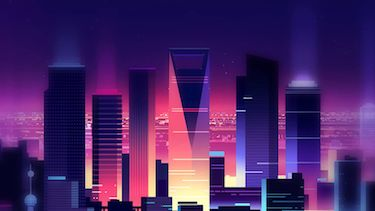
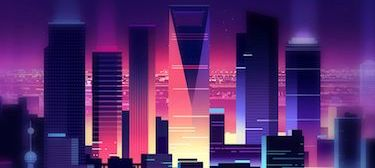
denver skyline synthy style

diff --git a/src/Contact/style.css b/src/Contact/style.css
@@ -1,0 +1,38 @@
+@media (max-width: 740px) {
+  footer {
+    background: repeating-linear-gradient(
+        135deg,
+        #CFCFCF 0%,
+        #CFCFCF 10%,
+        #E5E5E5 0%,
+        #E5E5E5 50%
+      )
+      0 / 15px 15px;
+  }
+  footer h2 {
+    font-size: 2rem;
+    padding: 20px 0 15px 0;
+    color: #00daff;
+    font-family: "Audiowide";
+    -webkit-animation: neon6 3.5s ease-in-out infinite alternate;
+    -moz-animation: neon6 3.5s ease-in-out infinite alternate;
+    animation: neon6 3.5s ease-in-out infinite alternate;
+    text-align: center;
+  }
+
+  footer nav {
+    width: 90%;
+    display: flex;
+    padding: 10px 20px 40px 20px;
+    justify-content: space-between;
+  }
+
+  footer nav img {
+    width: 40px;
+    text-shadow: 0 0 10px 10px white;
+    filter: brightness(0);
+    -webkit-animation: neon10 3.5s ease-in-out infinite alternate;
+    -moz-animation: neon10 3.5s ease-in-out infinite alternate;
+    animation: neon10 3.5s ease-in-out infinite alternate;
+  }
+}

diff --git a/src/About/style.css b/src/About/style.css
@@ -1,29 +1,15 @@
-@media (max-width: 740px) {
+/* @media (max-width: 740px) { */
   #about-page {
     height: 100vh;
     background-image:
-      url("../synth-city.jpg"),
+      url("../denver_Skyline-mobile.jpg"),
       linear-gradient(
-        85deg,
-        rgba(47,0,93, 1) 0%,
-        rgba(47,0,93, .5) 2%,
-        rgba(47,0,93, 0) 15%,
-        rgba(0,0,0,0) 100%
-      ),
-      linear-gradient(
-        270deg,
-        rgba(40,0,83, 1) 0%,
-        rgba(40,0,83, .5) 0%,
-        rgba(40,0,83, 0) 5%,
-        rgba(0,0,0,0) 100%
-      ),
-      linear-gradient(
-        360deg,
-        rgba(21,0,70, 1) 0%,
-        rgba(21,0,70, 1) 60%,
-        rgba(11,0,10, 9) 100%
-      );
+        0deg,
+        rgba(137,255,177, 1) 0%,
+        rgba(137,255,177, 1) 100%
+        );
+    background-size: contain;
     background-position:bottom;
     background-repeat: no-repeat;
-  }
+  /* } */
 }

diff --git a/src/Contact/index.js b/src/Contact/index.js
@@ -1,9 +1,24 @@
 import React from "react"
+import "./style.css"
 
-const Contact = (props) => {
-  return(
+const Contact = props => {
+  return (
     <footer>
-
+      <h2>CONTACT</h2>
+      <nav>
+        <a href="https://github.com/TheMoonMoth">
+          <img src="./images/003-github.png" alt="Github link" />
+        </a>
+        <a href="https://linkedin.com/in/KyleWeintraub">
+          <img src="./images/002-linkedin.png" alt="LinkedIn link" />
+        </a>
+        <a href="https://talent.galvanize.com/students/2071">
+          <img src="./images/gSchool-icon.png" alt="Galvanize talent link" />
+        </a>
+        <a href="mailto:weintraub.kyle@gmail.com">
+          <img src="./images/001-mail.png" alt="Email link" />
+        </a>
+      </nav>
     </footer>
   )
 }

diff --git a/src/Projects/style.css b/src/Projects/style.css
@@ -68,3 +68,30 @@
       0 0 75px #FFA0B6;
   }
 }
+
+@-webkit-keyframes neon10 {
+  from {
+    box-shadow:
+      0 0 3px #0000a4,
+      0 0 10px #0000a4,
+      0 0 15px #0000a4,
+
+      0 0 10px #FFA0B6,
+      0 0 17px #FFA0B6,
+      0 0 20px #FFA0B6,
+      0 0 25px #FFA0B6,
+      0 0 37px #FFA0B6;
+  }
+  to {
+    box-shadow:
+      0 0 5px #0000a4,
+      0 0 10px #0000a4,
+      0 0 15px #0000a4,
+
+      0 0 20px #FFA0B6,
+      0 0 35px #FFA0B6,
+      0 0 40px #FFA0B6,
+      0 0 50px #FFA0B6,
+      0 0 75px #FFA0B6;
+  }
+}

diff --git a/src/App.js b/src/App.js
@@ -8,6 +8,7 @@ import Projects from "./Projects"
 import Filler from "./Filler"
 import Resume from "./Resume"
 import About from "./About"
+import Contact from "./Contact"
 
 class App extends React.Component {
   constructor(props){
@@ -29,6 +30,7 @@ class App extends React.Component {
           <About />
           <Projects />
           <Resume />
+          <Contact />
         </div>
       </Router>
     )

diff --git a/src/About/index.js b/src/About/index.js
@@ -4,7 +4,10 @@ import "./style.css"
 const About = (props) => {
   return(
     <div id="about-page">
-      <p>hi</p>
+      <h2>ABOUT KYLE</h2>
+      <p>
+        
+      </p>
     </div>
   )
 }
